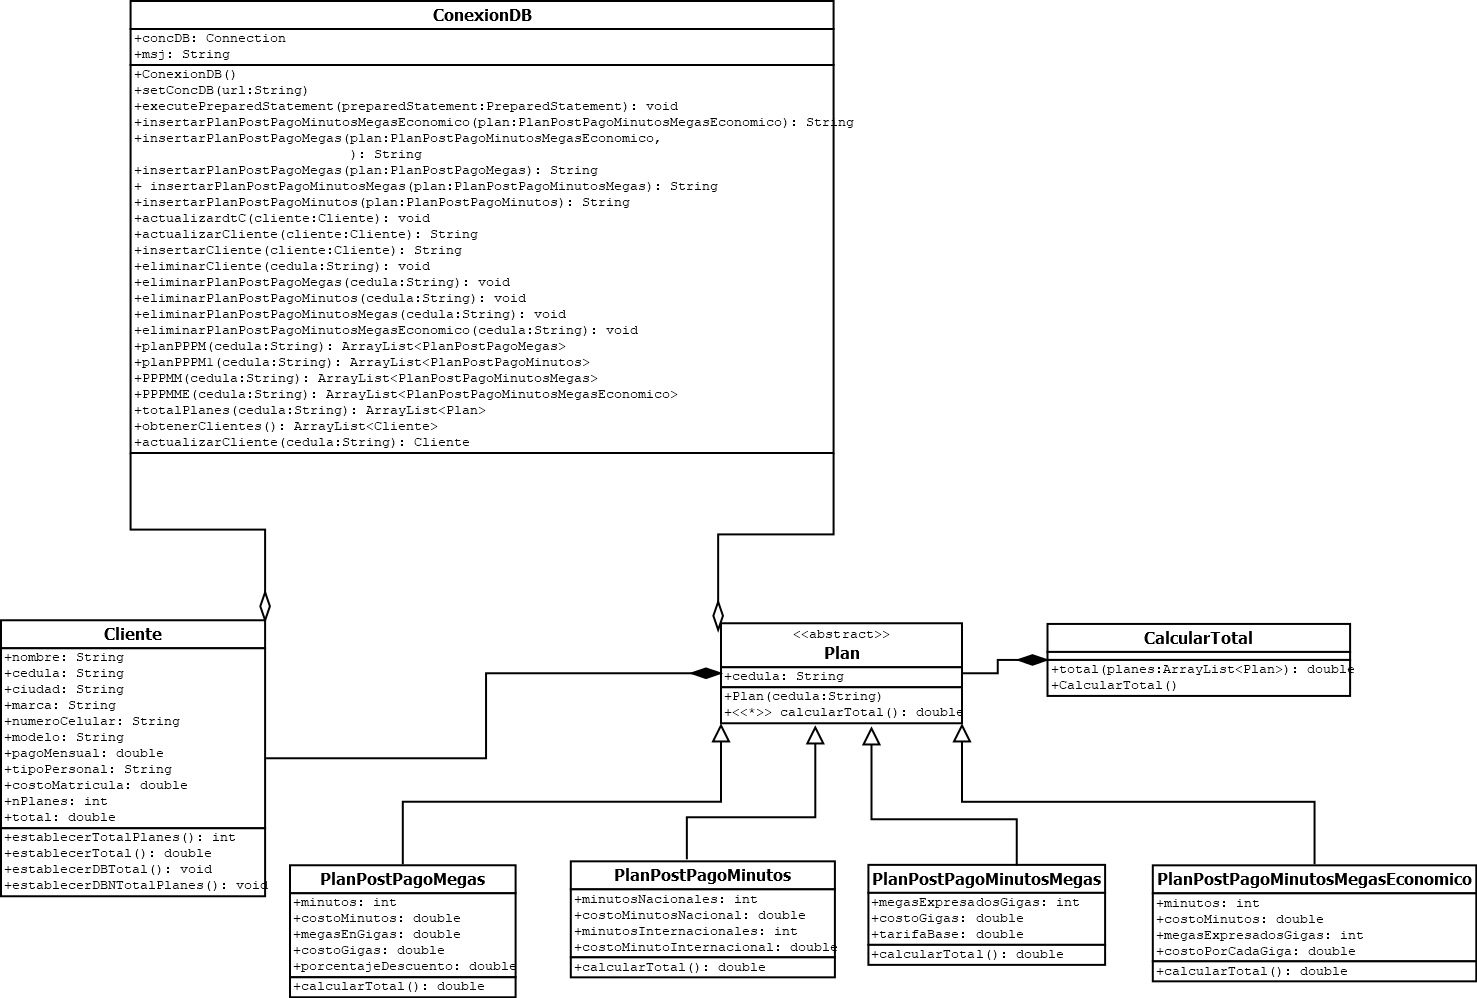
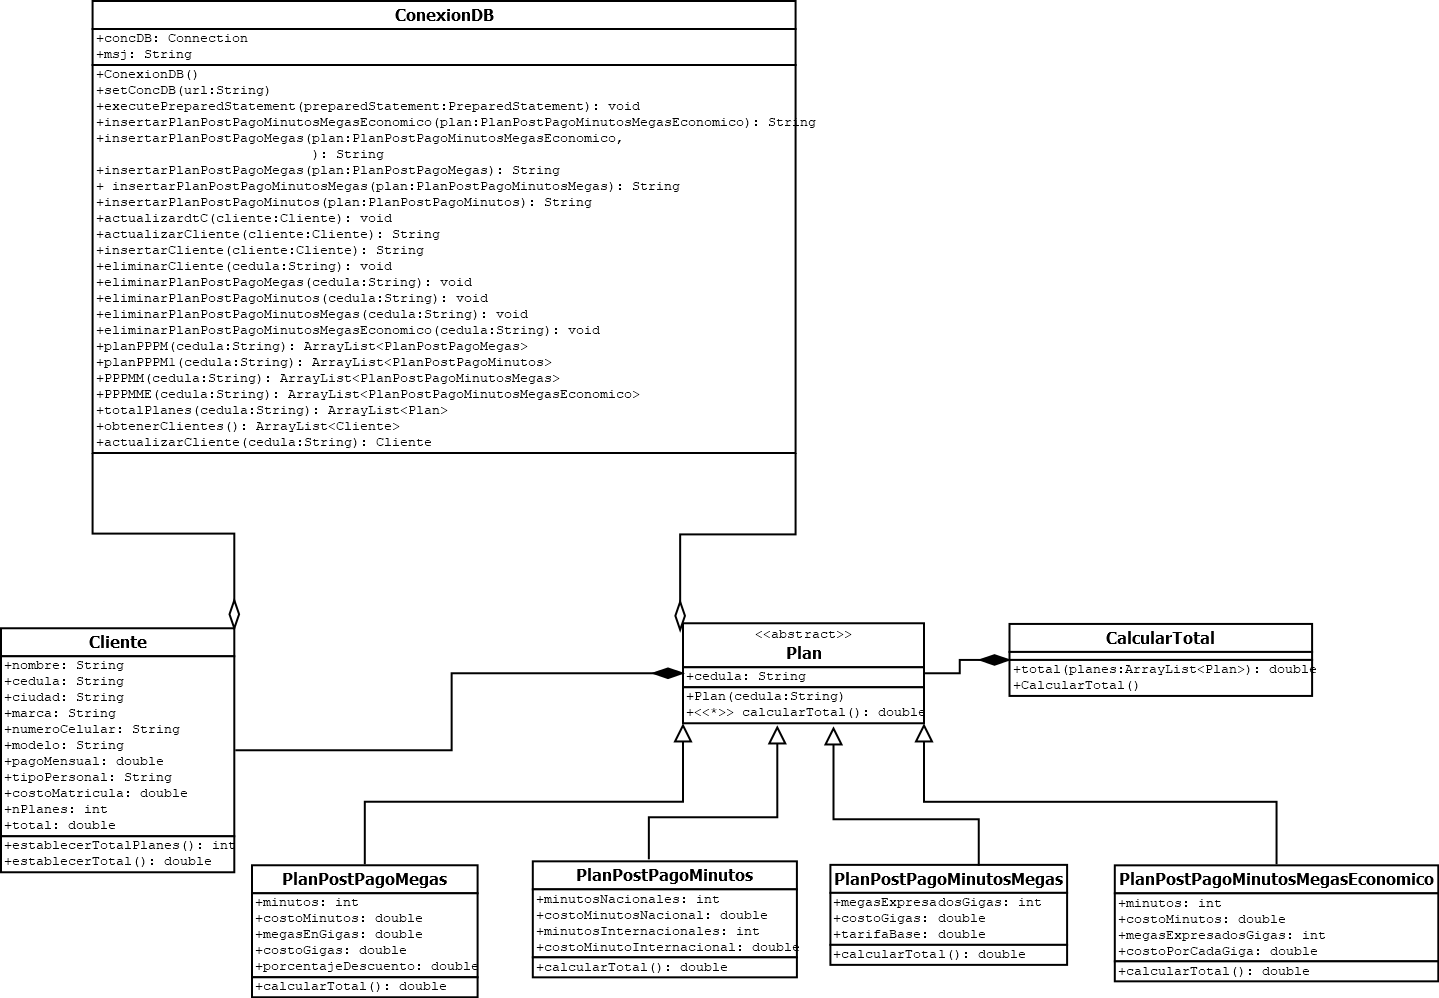
Taller Grupal

diff --git a/2_SOLUCION/SOLUCION/src/MODEL/ConexionDB.java b/2_SOLUCION/SOLUCION/src/MODEL/ConexionDB.java
@@ -331,8 +331,8 @@ public class ConexionDB {
                 Cliente cliente= new Cliente(resultSet.getString("nombre"),resultSet.getString("cedula"),resultSet.getString("ciudad"),resultSet.getString("marca"),
                         resultSet.getString("modelo"),resultSet.getString("numeroCelular"),resultSet.getDouble("pagoMensual"),resultSet.getString("tipoPersonal"),
                         resultSet.getDouble("costoMatricula"));
-                cliente.establecerDBNTotalPlanes(resultSet.getInt("numeroPlanes"));
-                cliente.establecerDBTotal(resultSet.getDouble("Total"));
+                cliente.establecerTotal();
+                cliente.establecerTotalPlanes();
                 clientes.add(cliente);
             }
             resultSet.close();
@@ -358,8 +358,8 @@ public class ConexionDB {
                         resultSet.getDouble("pagoMensual"),
                         resultSet.getString("tipoPersonal"),
                         resultSet.getDouble("costoMatricula"));
-                clienteActualizado.establecerDBNTotalPlanes(resultSet.getInt("numeroPlanes"));
-                clienteActualizado.establecerDBTotal(resultSet.getDouble("Total"));
+                clienteActualizado.establecerTotal();
+                clienteActualizado.establecerTotalPlanes();
                 connection.close();
                 statement.close();
                 resultSet.close();

diff --git a/2_SOLUCION/SOLUCION/src/MODEL/Cliente.java b/2_SOLUCION/SOLUCION/src/MODEL/Cliente.java
@@ -42,14 +42,6 @@ public class Cliente {
         return total;
     }
 
-    public void establecerDBTotal(double total) {
-        this.total = establecerTotal();
-    }
-
-    public void establecerDBNTotalPlanes(int nPlanes) {
-        this.nPlanes = establecerTotalPlanes();
-    }
-
     public String toString() {
         return String.format("Nombre: %s%nCedula: %s%nCiudad: %s%n" +
                         "Marca: %s%nModelo: %s%nNumero de Celular: %s%n" +
